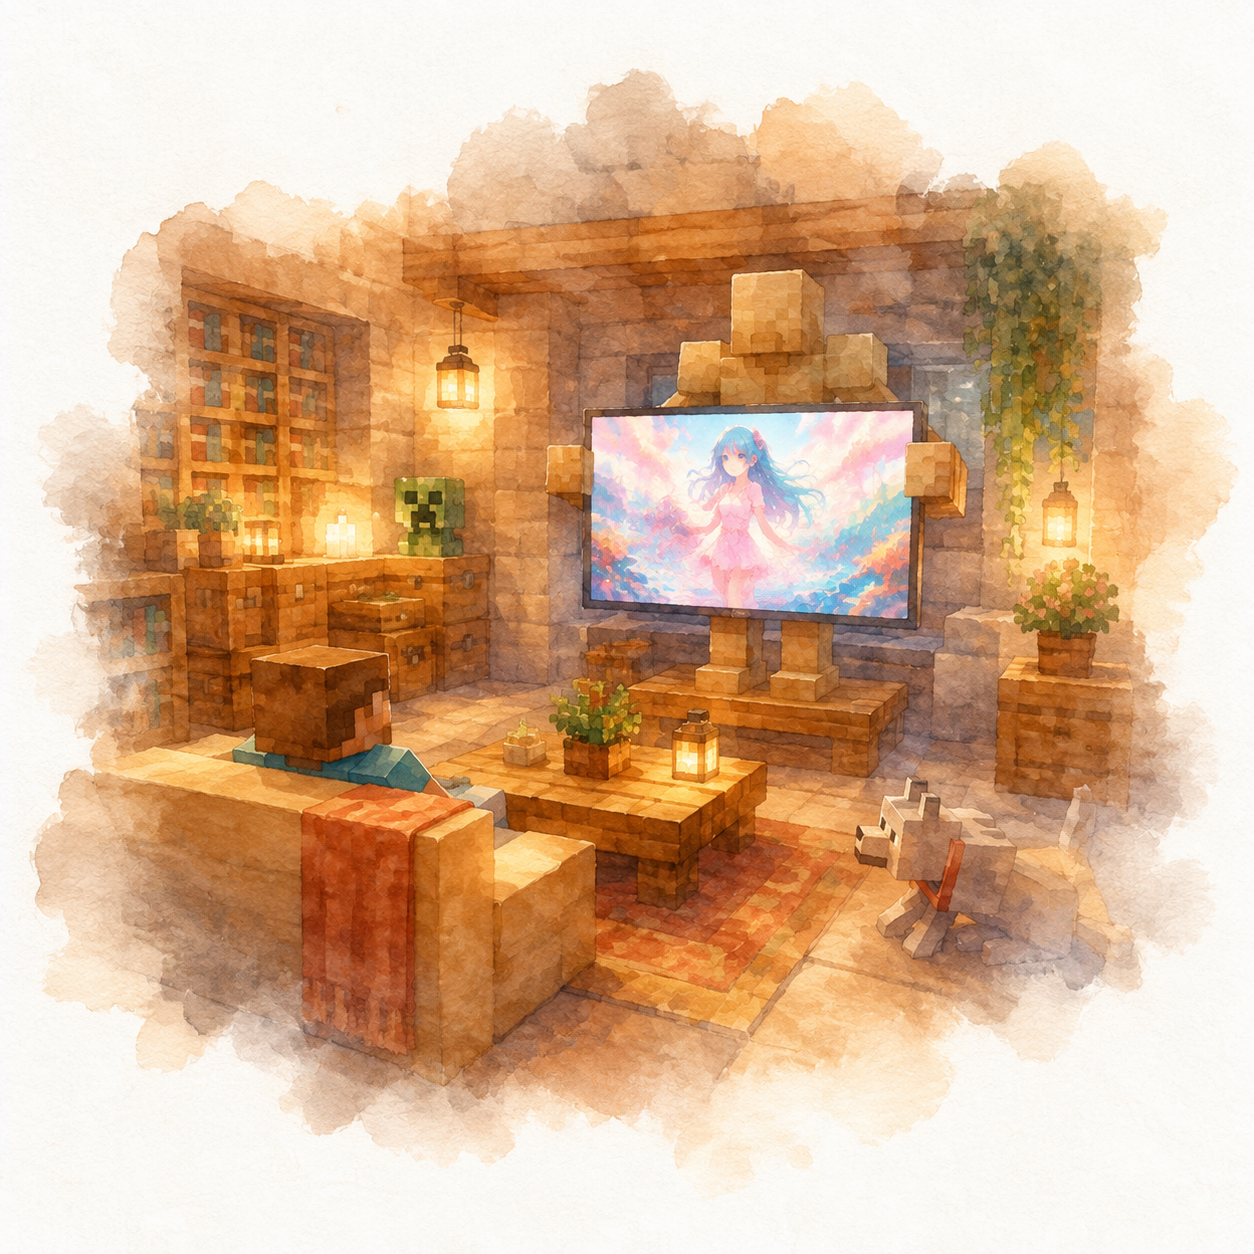
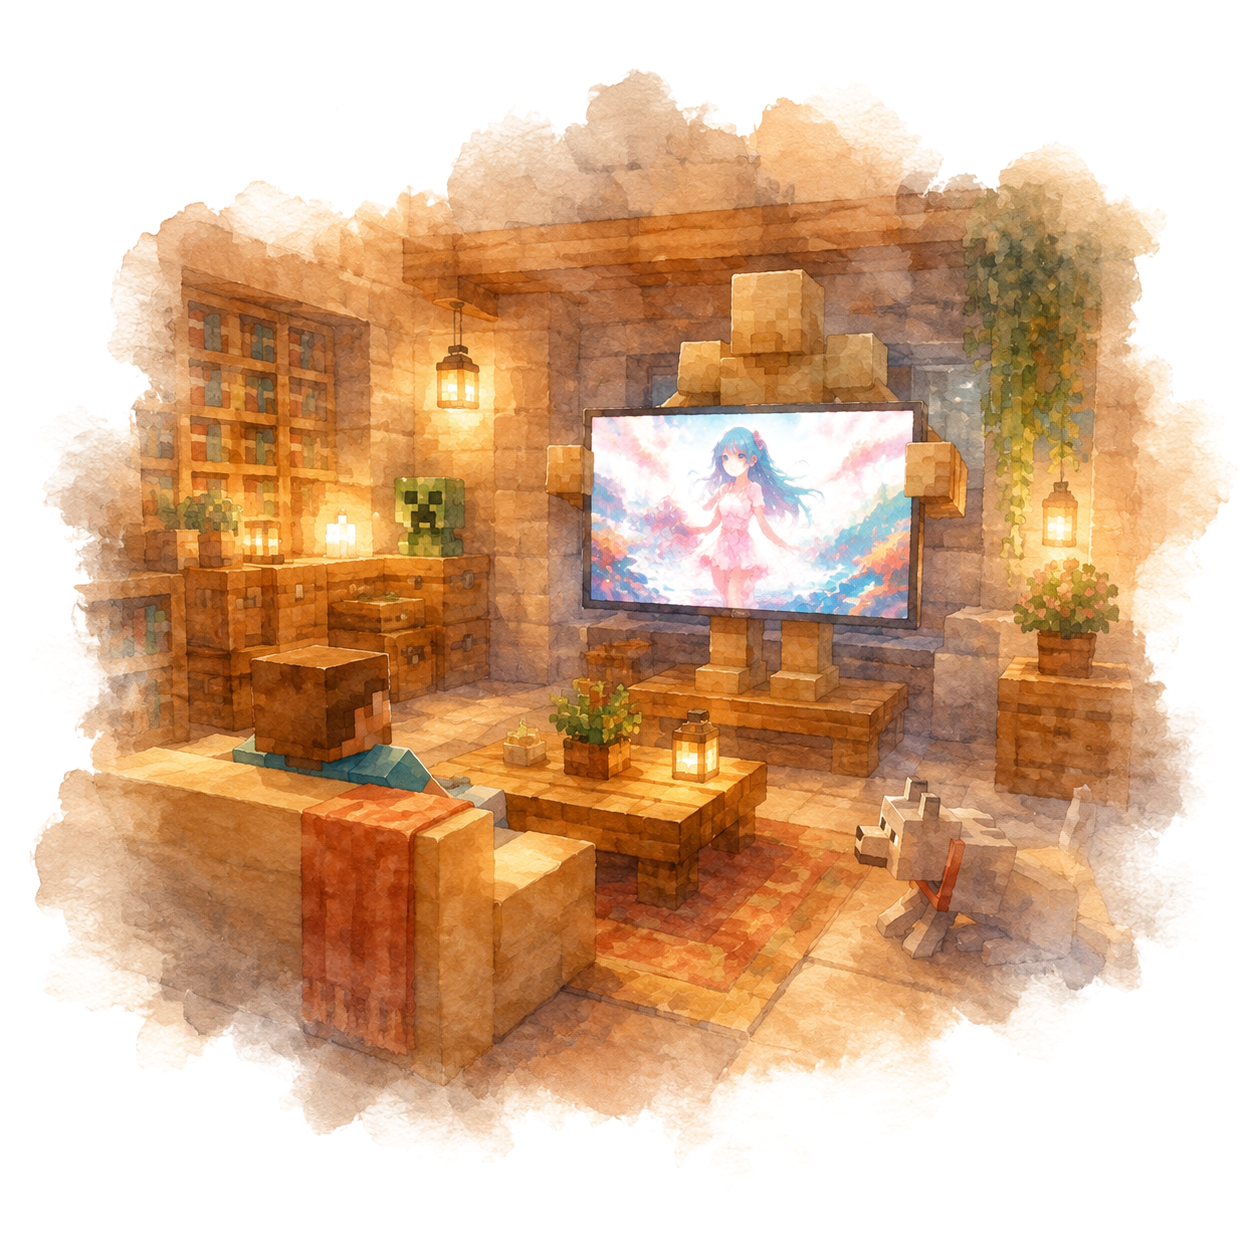
feat: make watercolor art transparent

diff --git a/app/page.tsx b/app/page.tsx
@@ -80,30 +80,15 @@ export default function Home() {
         <div className="space-y-20">
           {projects.map((project) => (
             <article key={project.name} className="group">
-              {/* Watercolor image - painted into the paper */}
+              {/* Transparent watercolor lets the paper texture show through. */}
               <div className="relative -mx-8 md:mx-0">
-                <div className="relative aspect-[4/3] md:aspect-[16/9] overflow-hidden rounded-sm">
+                <div className="relative aspect-[4/3] md:aspect-[16/9]">
                   <Image
                     src={project.image}
                     alt={project.name}
                     fill
                     className="object-contain transition-all duration-700 group-hover:scale-[1.01]"
-                    style={{
-                      filter: "sepia(0.15) saturate(0.9) brightness(1.02) contrast(0.95)",
-                    }}
                   />
-                  {/* Fade edges into paper */}
-                  <div
-                    className="absolute inset-0 pointer-events-none"
-                    style={{
-                      background: `
-                        linear-gradient(to right, var(--background) 0%, transparent 8%, transparent 92%, var(--background) 100%),
-                        linear-gradient(to bottom, var(--background) 0%, transparent 6%, transparent 94%, var(--background) 100%)
-                      `,
-                    }}
-                  />
-                  {/* Warm tint overlay */}
-                  <div className="absolute inset-0 pointer-events-none bg-[#f5f0e8] opacity-15 mix-blend-color" />
                 </div>
               </div>
 

diff --git a/scripts/make-watercolor-transparent.py b/scripts/make-watercolor-transparent.py
@@ -1,0 +1,51 @@
+from pathlib import Path
+
+from PIL import Image, ImageFilter, ImageStat
+
+
+ROOT = Path(__file__).resolve().parents[1]
+IMAGES = [
+    ROOT / "public/images/mcedia-watercolor.png",
+    ROOT / "public/images/tobys-camera-watercolor.png",
+]
+
+
+def smoothstep(value: float, low: float, high: float) -> int:
+    position = max(0.0, min(1.0, (value - low) / (high - low)))
+    return round(position * position * (3 - 2 * position) * 255)
+
+
+def background_color(image: Image.Image) -> tuple[float, float, float]:
+    width, height = image.size
+    side = max(32, min(width, height) // 12)
+    corners = [
+        image.crop((0, 0, side, side)),
+        image.crop((width - side, 0, width, side)),
+        image.crop((0, height - side, side, height)),
+        image.crop((width - side, height - side, width, height)),
+    ]
+    channels = zip(*(ImageStat.Stat(corner).mean for corner in corners))
+    return tuple(sum(channel) / len(corners) for channel in channels)
+
+
+def remove_background(path: Path) -> None:
+    source = Image.open(path).convert("RGB")
+    background = background_color(source)
+    alpha = Image.new("L", source.size)
+    alpha.putdata([
+        smoothstep(
+            sum((channel - reference) ** 2 for channel, reference in zip(pixel, background)) ** 0.5,
+            16,
+            88,
+        )
+        for pixel in source.get_flattened_data()
+    ])
+    alpha = alpha.filter(ImageFilter.GaussianBlur(radius=0.7))
+    output = source.copy()
+    output.putalpha(alpha)
+    output.save(path)
+    print(f"Processed {path.name}; sampled background: {background}")
+
+
+for image in IMAGES:
+    remove_background(image)
